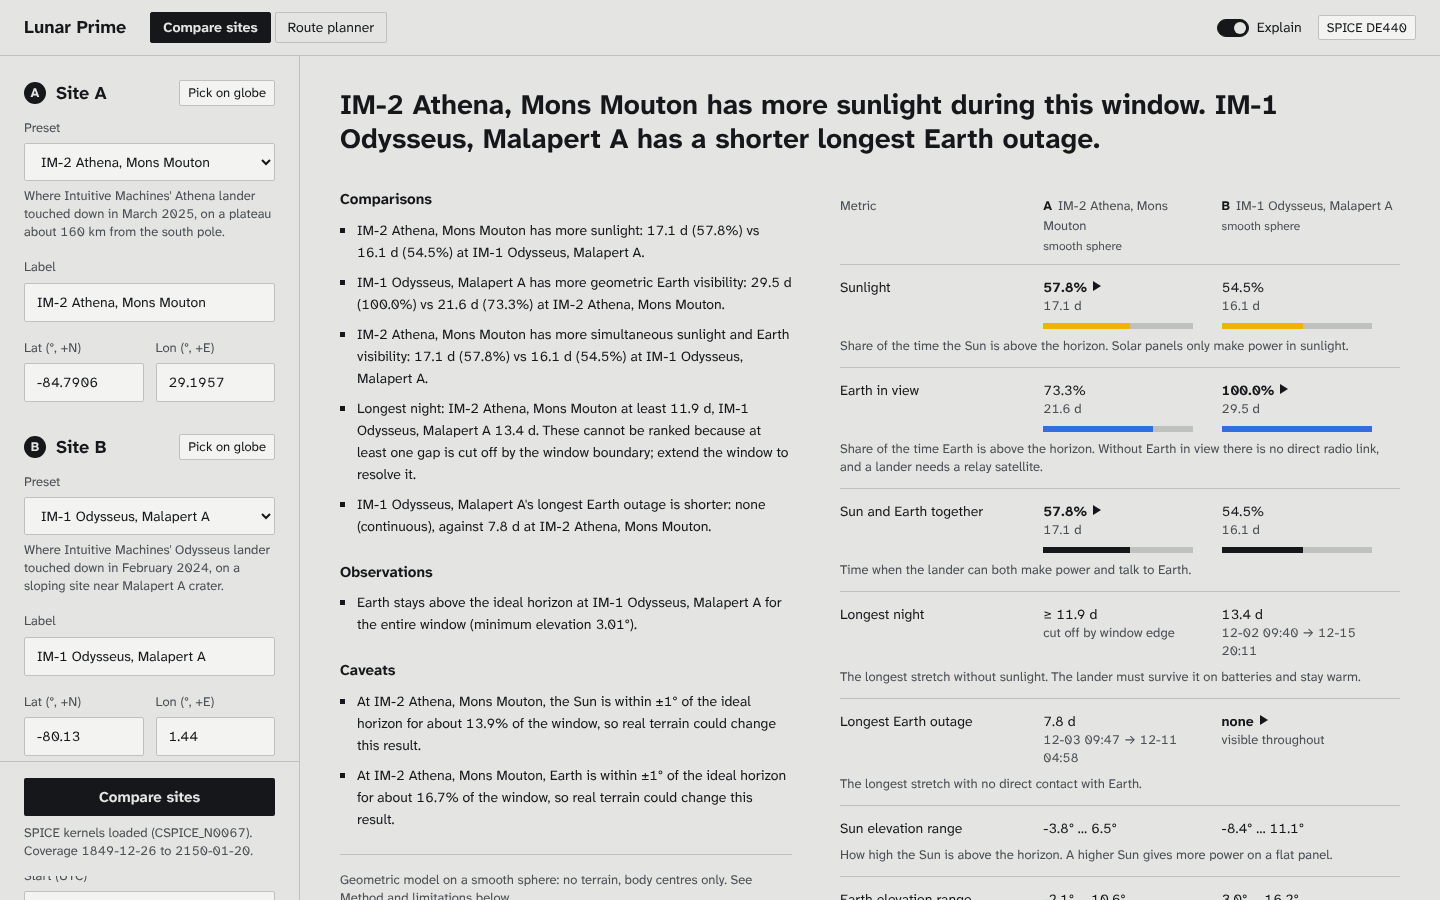
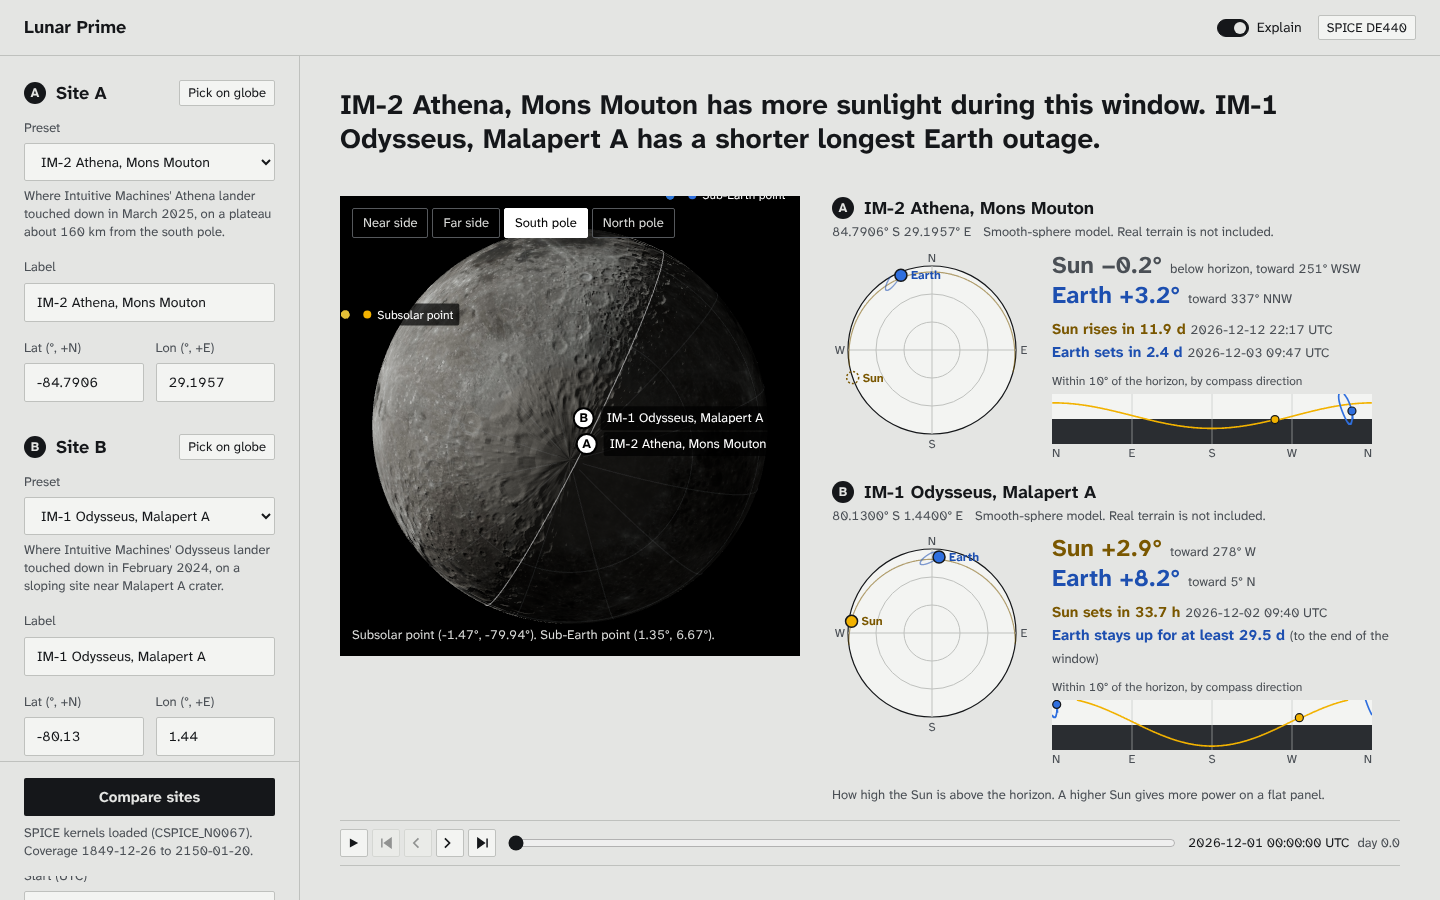
V2: picture first
Headline, then the globe beside both sky plots, then the scrubber, then findings and metrics.
To fit 1440 x 900, each sky plot is now a row (sky disc beside its figures, countdowns and
horizon strip), the globe plate is 460 px, and the elevation/azimuth table became a short
'toward 271° W' note next to each elevation figure. The Explain sentence for elevation is
shown once under both sky plots instead of under each. The globe opens on the south-pole
view so both default (south-pole) site markers are visible.
Screenshot: design/screenshot-first-screen.png.

diff --git a/frontend/src/components/HorizonView.tsx b/frontend/src/components/HorizonView.tsx
@@ -3,7 +3,6 @@
 import { useMemo } from "react";
 
 import { nextChange, type NextChange } from "@/lib/events";
-import { EXPLAIN } from "@/lib/explain";
 import { compass, fmtDuration, fmtLat, fmtLon, fmtUtc } from "@/lib/format";
 import { EARTH, EARTH_INK, FIELD, INK, LINE, MUTED, NIGHT, SUN, SUN_INK } from "@/lib/theme";
 import type { SiteResult } from "@/lib/types";
@@ -15,8 +14,8 @@ const STRIP_LIM = 10; // degrees shown above/below the ideal horizon in the stri
 const S = 200; // sky plot
 const C = S / 2;
 const R = 84;
-const W = 216; // near-horizon strip
-const H = 64;
+const W = 320; // near-horizon strip
+const H = 50;
 const TICK_H = 16;
 
 interface Props {
@@ -26,8 +25,6 @@ interface Props {
   /** Time of the current sample for this site, and the end of this site's window (both UTC). */
   timeUtc: string;
   windowEndUtc: string;
-  /** Show the plain-language sentence under the elevation figures. */
-  explain?: boolean;
 }
 
 function stride(n: number) {
@@ -100,40 +97,22 @@ function Countdown({ name, ink, c }: { name: string; ink: string; c: NextChange 
 }
 
 /** Current elevation as a large figure; grey with "below horizon" when the body is down. */
-function BigElevation({ name, ink, el }: { name: string; ink: string; el: number }) {
+function BigElevation({ name, ink, el, az }: { name: string; ink: string; el: number; az: number }) {
   const up = el > 0;
   return (
-    <p className="flex items-baseline gap-2 whitespace-nowrap">
-      <span className="text-[24px] leading-[30px] font-bold tabular-nums" style={{ color: up ? ink : MUTED }}>
+    <p className="flex flex-wrap items-baseline gap-x-2">
+      <span className="text-[24px] leading-[30px] font-bold whitespace-nowrap tabular-nums" style={{ color: up ? ink : MUTED }}>
         {name} {el >= 0 ? "+" : "−"}
         {Math.abs(el).toFixed(1)}°
       </span>
-      {!up && <span className="text-[13px] text-muted">below horizon</span>}
+      <span className="text-[13px] whitespace-nowrap text-muted tabular-nums">
+        {up ? "" : "below horizon, "}toward {az.toFixed(0)}° {compass(az)}
+      </span>
     </p>
   );
 }
 
-function Readout({ name, fill, ink, az, el }: { name: string; fill: string; ink: string; az: number; el: number }) {
-  const up = el > 0;
-  return (
-    <>
-      <span className="flex items-center gap-1.5 font-bold" style={{ color: ink }}>
-        <span className="inline-block h-2.5 w-2.5 rounded-full" style={{ background: fill }} aria-hidden />
-        {name}
-      </span>
-      <span className="text-right tabular-nums">
-        {el >= 0 ? "+" : "−"}
-        {Math.abs(el).toFixed(2)}°
-      </span>
-      <span className="whitespace-nowrap text-right tabular-nums">
-        {az.toFixed(0)}° {compass(az)}
-      </span>
-      <span className={`text-right ${up ? "font-bold text-text" : "text-muted"}`}>{up ? "up" : "down"}</span>
-    </>
-  );
-}
-
-export default function HorizonView({ site, letter, index, timeUtc, windowEndUtc, explain = false }: Props) {
+export default function HorizonView({ site, letter, index, timeUtc, windowEndUtc }: Props) {
   const i = Math.min(index, site.sun.az_deg.length - 1);
   const sun = { az: site.sun.az_deg[i], el: site.sun.el_deg[i] };
   const earth = { az: site.earth.az_deg[i], el: site.earth.el_deg[i] };
@@ -183,22 +162,19 @@ export default function HorizonView({ site, letter, index, timeUtc, windowEndUtc
 
   return (
     <section aria-label={`Local horizon view for site ${letter}`} className="min-w-0">
-      <header className="mb-3">
-        <h3 className="flex items-center gap-2.5 text-[18px] leading-[24px] font-bold">
+      <header className="mb-2">
+        <h3 className="flex items-center gap-2.5 text-[18px] leading-[24px] font-bold" title={site.label}>
           <span className="flex h-[22px] w-[22px] shrink-0 items-center justify-center rounded-full bg-text text-[13px] text-bg">{letter}</span>
-          <span>{site.label}</span>
+          <span className="truncate">{site.label}</span>
         </h3>
-        <p className="mt-1 text-[13px] tabular-nums text-muted">
-          {fmtLat(site.lat_deg)} {fmtLon(site.lon_deg)}
+        <p className="mt-0.5 flex flex-wrap gap-x-3 text-[13px] text-muted">
+          <span className="tabular-nums">
+            {fmtLat(site.lat_deg)} {fmtLon(site.lon_deg)}
+          </span>
+          {Math.abs(site.lat_deg) >= 80 && <span>Smooth-sphere model. Real terrain is not included.</span>}
         </p>
-        {Math.abs(site.lat_deg) >= 80 && <p className="text-[13px] text-muted">Smooth-sphere model. Real terrain is not included.</p>}
       </header>
-      <div className="flex flex-col items-start gap-3">
-        <div className="space-y-0.5">
-          <BigElevation name="Sun" ink={SUN_INK} el={sun.el} />
-          <BigElevation name="Earth" ink={EARTH_INK} el={earth.el} />
-          {explain && <p className="max-w-[260px] pt-1 text-[13px] leading-[18px] text-muted">{EXPLAIN.sunElevation}</p>}
-        </div>
+      <div className="flex flex-wrap items-start gap-x-5 gap-y-3">
         <svg
           width={S}
           height={S}
@@ -229,44 +205,42 @@ export default function HorizonView({ site, letter, index, timeUtc, windowEndUtc
           {body(earth, EARTH, EARTH_INK, "Earth")}
           {body(sun, SUN, SUN_INK, "Sun")}
         </svg>
-        <div>
-          <p className="mb-1 text-[12px] text-muted">Within 10° of the horizon, by compass direction</p>
-          <svg width={W} height={H + TICK_H} viewBox={`0 0 ${W} ${H + TICK_H}`} role="img" aria-label="Elevation near the horizon versus azimuth">
-            <rect x={0} y={0} width={W} height={H / 2} fill={FIELD} />
-            <rect x={0} y={H / 2} width={W} height={H / 2} fill={NIGHT} />
-            {[90, 180, 270].map((a) => (
-              <line key={a} x1={(a / 360) * W} y1={0} x2={(a / 360) * W} y2={H} stroke={LINE} strokeOpacity={0.6} />
-            ))}
-            <path d={tracks.stripSun} fill="none" stroke={SUN} strokeWidth={1.6} />
-            <path d={tracks.stripEarth} fill="none" stroke={EARTH} strokeWidth={1.6} />
-            {stripDot(earth, EARTH, EARTH_INK)}
-            {stripDot(sun, SUN, SUN_INK)}
-            {(
-              [
-                ["N", 0, "start"],
-                ["E", 90, "middle"],
-                ["S", 180, "middle"],
-                ["W", 270, "middle"],
-                ["N", 360, "end"],
-              ] as const
-            ).map(([t, a, anchor]) => (
-              <text key={a} x={(a / 360) * W} y={H + 13} fontSize={12} fill={MUTED} textAnchor={anchor}>
-                {t}
-              </text>
-            ))}
-          </svg>
-        </div>
-        <div className="w-full space-y-1" aria-live="off">
-          <Countdown name="Sun" ink={SUN_INK} c={sunNext} />
-          <Countdown name="Earth" ink={EARTH_INK} c={earthNext} />
-        </div>
-        <div className="grid w-full max-w-[260px] grid-cols-[auto_1fr_auto_auto] gap-x-2.5 gap-y-1 border-t border-line pt-2 text-[13px] leading-[18px]">
-          <span />
-          <span className="text-right text-[12px] text-muted">Elevation</span>
-          <span className="text-right text-[12px] text-muted">Azimuth</span>
-          <span />
-          <Readout name="Sun" fill={SUN} ink={SUN_INK} az={sun.az} el={sun.el} />
-          <Readout name="Earth" fill={EARTH} ink={EARTH_INK} az={earth.az} el={earth.el} />
+        <div className="min-w-0 flex-1 space-y-2">
+          <div>
+            <BigElevation name="Sun" ink={SUN_INK} el={sun.el} az={sun.az} />
+            <BigElevation name="Earth" ink={EARTH_INK} el={earth.el} az={earth.az} />
+          </div>
+          <div aria-live="off">
+            <Countdown name="Sun" ink={SUN_INK} c={sunNext} />
+            <Countdown name="Earth" ink={EARTH_INK} c={earthNext} />
+          </div>
+          <div>
+            <p className="mb-1 text-[12px] text-muted">Within 10° of the horizon, by compass direction</p>
+            <svg width={W} height={H + TICK_H} viewBox={`0 0 ${W} ${H + TICK_H}`} role="img" aria-label="Elevation near the horizon versus azimuth">
+              <rect x={0} y={0} width={W} height={H / 2} fill={FIELD} />
+              <rect x={0} y={H / 2} width={W} height={H / 2} fill={NIGHT} />
+              {[90, 180, 270].map((a) => (
+                <line key={a} x1={(a / 360) * W} y1={0} x2={(a / 360) * W} y2={H} stroke={LINE} strokeOpacity={0.6} />
+              ))}
+              <path d={tracks.stripSun} fill="none" stroke={SUN} strokeWidth={1.6} />
+              <path d={tracks.stripEarth} fill="none" stroke={EARTH} strokeWidth={1.6} />
+              {stripDot(earth, EARTH, EARTH_INK)}
+              {stripDot(sun, SUN, SUN_INK)}
+              {(
+                [
+                  ["N", 0, "start"],
+                  ["E", 90, "middle"],
+                  ["S", 180, "middle"],
+                  ["W", 270, "middle"],
+                  ["N", 360, "end"],
+                ] as const
+              ).map(([t, a, anchor]) => (
+                <text key={a} x={(a / 360) * W} y={H + 13} fontSize={12} fill={MUTED} textAnchor={anchor}>
+                  {t}
+                </text>
+              ))}
+            </svg>
+          </div>
         </div>
       </div>
     </section>

diff --git a/frontend/src/components/LunarPrimeApp.tsx b/frontend/src/components/LunarPrimeApp.tsx
@@ -9,7 +9,7 @@ import type { CompareRequest, CompareResponse, HealthResponse } from "@/lib/type
 import { SiteCard, WindowCard, siteErrors, windowErrors, type SiteDraft, type WindowDraft } from "./Controls";
 import HorizonView from "./HorizonView";
 import type { GlobeView } from "./MoonGlobe";
-import { WHY_THIS_MATTERS } from "@/lib/explain";
+import { EXPLAIN, WHY_THIS_MATTERS } from "@/lib/explain";
 import { Findings, Headline, MethodsPanel, MetricsTable, WindowsList } from "./Results";
 import Scrubber from "./Scrubber";
 import Timelines from "./Timelines";
@@ -77,7 +77,7 @@ export default function LunarPrimeApp() {
   const [error, setError] = useState<ApiError | null>(null);
   const [index, setIndex] = useState(0);
   const [picking, setPicking] = useState<"A" | "B" | null>(null);
-  const [view, setView] = useState<{ name: GlobeView; nonce: number }>({ name: "near", nonce: 0 });
+  const [view, setView] = useState<{ name: GlobeView; nonce: number }>({ name: "south", nonce: 0 });
   const [explain, setExplain] = useState(true);
   const [lightFor, setLightFor] = useState<0 | 1>(0);
   const abortRef = useRef<AbortController | null>(null);
@@ -289,24 +289,13 @@ export default function LunarPrimeApp() {
           )}
 
           {result && (
-            <section aria-label="Findings and metrics" className={`space-y-8 border-b border-line pb-10 transition-opacity ${loading || stale ? "opacity-60" : ""}`}>
+            <section aria-label="Headline" className={`transition-opacity ${loading || stale ? "opacity-60" : ""}`}>
               <Headline result={result} />
-              <div className="grid grid-cols-1 gap-12 xl:grid-cols-[minmax(0,1fr)_560px]">
-                <Findings result={result} />
-                <MetricsTable result={result} explain={explain} />
-              </div>
             </section>
           )}
 
-          {result && explain && (
-            <section aria-label="Why this matters" className="border-b border-line pb-10">
-              <h2 className="mb-1.5 text-[18px] leading-[24px] font-bold">Why this matters</h2>
-              <p className="max-w-[820px] text-[15px] leading-[23px] text-text">{WHY_THIS_MATTERS}</p>
-            </section>
-          )}
-
-          <div className="grid grid-cols-1 gap-8 border-b border-line pb-10 xl:grid-cols-[560px_minmax(0,1fr)]">
-            <div className="relative h-[420px] overflow-hidden bg-space sm:h-[520px] xl:h-[620px]">
+          <div className="grid grid-cols-1 gap-8 xl:grid-cols-[460px_minmax(0,1fr)]">
+            <div className="relative h-[420px] overflow-hidden bg-space sm:h-[520px] xl:h-[460px]">
               <MoonGlobe sites={globeSites} subsolar={subsolar} subEarth={subEarth} picking={picking} onPick={onPick} view={view} />
               <div className="pointer-events-none absolute inset-x-0 top-0 flex flex-wrap items-start justify-between gap-2 p-3">
                 <div className="pointer-events-auto flex gap-1" role="group" aria-label="Globe view">
@@ -360,7 +349,7 @@ export default function LunarPrimeApp() {
               </div>
             </div>
 
-            <div className="grid grid-cols-1 content-start gap-8 sm:grid-cols-2">
+            <div className={`grid grid-cols-1 content-start gap-5 transition-opacity ${loading || stale ? "opacity-60" : ""}`}>
               {result
                 ? result.sites.map((s, k) => (
                     <HorizonView
@@ -370,7 +359,6 @@ export default function LunarPrimeApp() {
                       index={i}
                       timeUtc={s.timestamps_utc[i]}
                       windowEndUtc={s.timestamps_utc[s.timestamps_utc.length - 1]}
-                      explain={explain}
                     />
                   ))
                 : LETTERS.map((l) => (
@@ -378,13 +366,29 @@ export default function LunarPrimeApp() {
                       {loading ? "Computing local horizon…" : `Horizon view for site ${l}`}
                     </div>
                   ))}
+              {result && explain && <p className="max-w-[560px] text-[13px] leading-[18px] text-muted">{EXPLAIN.sunElevation}</p>}
             </div>
           </div>
 
           {result && (
-            <div className="sticky top-14 z-30">
+            <div className="sticky top-14 z-30 -mt-6">
               <Scrubber key={lastReq ?? ""} result={result} index={i} onIndex={setIndex} />
             </div>
+          )}
+
+          {result && (
+            <section aria-label="Findings and metrics" className={`border-b border-line pb-10 transition-opacity ${loading || stale ? "opacity-60" : ""}`}>
+              <div className="grid grid-cols-1 gap-12 xl:grid-cols-[minmax(0,1fr)_560px]">
+                <Findings result={result} />
+                <MetricsTable result={result} explain={explain} />
+              </div>
+            </section>
+          )}
+          {result && explain && (
+            <section aria-label="Why this matters" className="border-b border-line pb-10">
+              <h2 className="mb-1.5 text-[18px] leading-[24px] font-bold">Why this matters</h2>
+              <p className="max-w-[820px] text-[15px] leading-[23px] text-text">{WHY_THIS_MATTERS}</p>
+            </section>
           )}
 
           <div className={`space-y-10 transition-opacity ${loading || stale ? "opacity-60" : ""}`}>

diff --git a/README.md b/README.md
@@ -13,6 +13,8 @@ Compare two lunar landing sites by **geometric sunlight** and **direct-to-Earth 
 
 ## What's new (November 2026)
 
+**Picture first (V2).** The first screen now shows the headline, then the lit globe beside both sky plots, then the time scrubber, all within a 1440 x 900 window. Each sky plot is a row: the sky disc, the current Sun and Earth elevations (with the compass direction of each), the time until each next rises or sets, and the strip of the sky within 10° of the horizon. The findings and the metrics table follow, then "Why this matters", the timelines and the method. The globe opens on its south-pole view, because both default sites are near the south pole.
+
 **Route planner removed (V1).** The challenge is about choosing where and when to land, not about driving, so the route planner tab is gone. Its last version is kept under the Git tag `route-planner-archive`.
 
 **Design refresh.** A light page with one font (Atkinson Hyperlegible Next). Colour is used only for the two bodies: yellow for the Sun, blue for Earth. The answer comes first: a two-sentence headline, the findings and a metrics table with bars, then the globe and sky plots, then the timelines.
